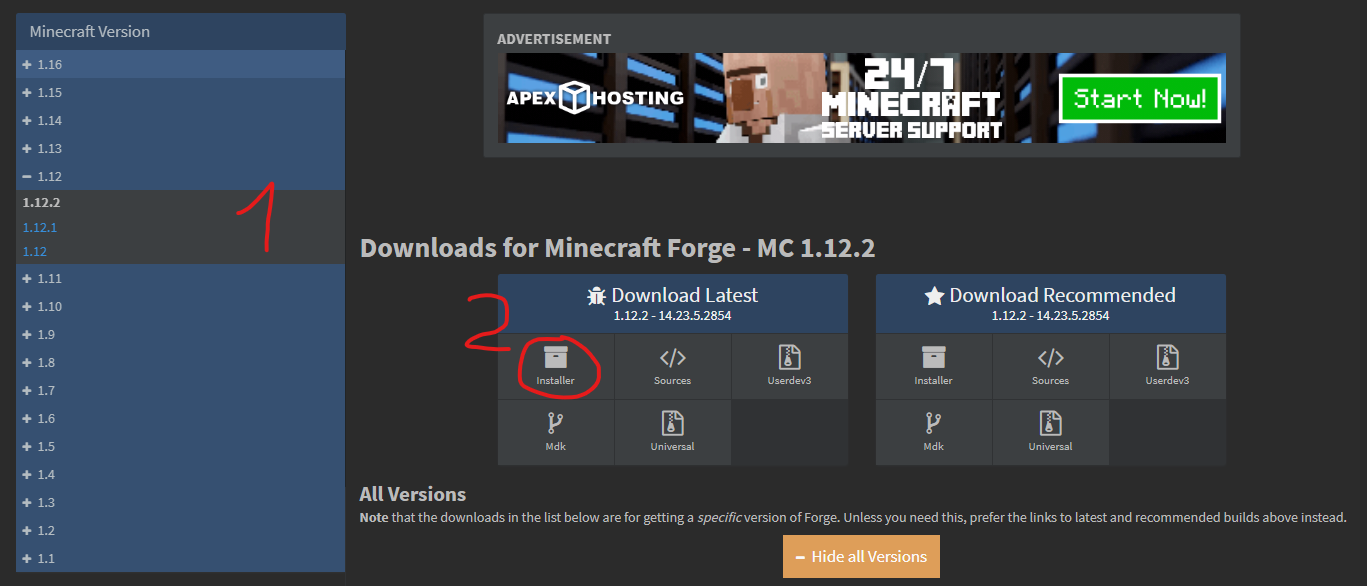
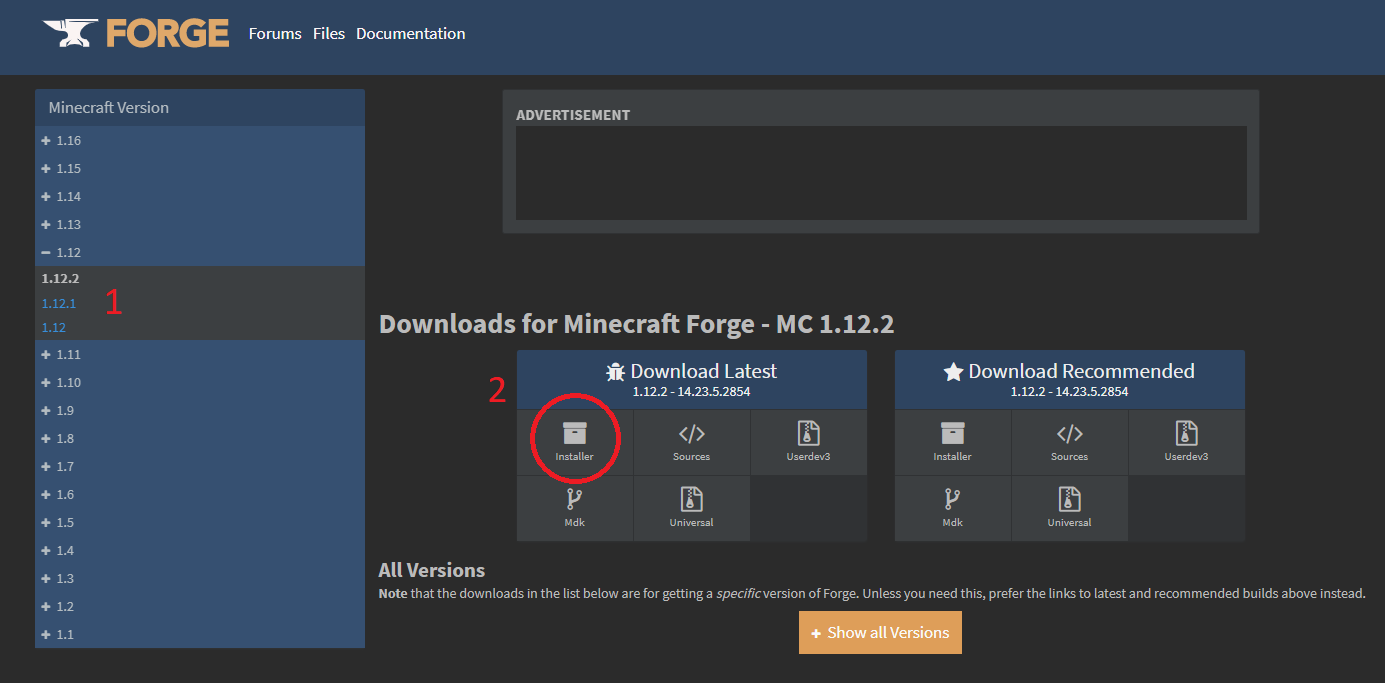
Updated faq, modified screenshot
- Better forge website screenshot (not circled by hand)
- faq : "add or update Java path" changed to "console stays empty when starting" to better describe the issue

diff --git a/docs/faq.md b/docs/faq.md
@@ -14,7 +14,7 @@
 *   [Failed to set performance counters.](#failed-to-set-performance-counters)
 *   [I have this weird IP address: 2001:0db8:85a3:0000:0000:8a2e:0370:7334, is this normal?](#weird-ip-address)
 *   [Updating from 10.4.0.0 or older fails.](#updating-from-10400-fails)
-*   [Add (or update) the Java system path.](#add-update-java-path)
+*   [When I click on start, the console remains empty and the server does nothing/Java is not installed.](#add-update-java-path)
 *   [Mcss has crashed and I want to help fix it.](#crashed-help-dev)
 *   [The UTF-8 encoding doesn't work, I *really really* need it to work.](#utf-8)
 
@@ -51,14 +51,14 @@ However if you want other people to be able to play on your server, you will nee
 Make sure port 25565 (both TCP & UDP) is allowed through your firewall or else it will Refuse the connection.
 
 <a name="is-there-a-mac-version"></a>
-## "Is there a mac or linux version?"
+## Is there a mac or linux version?
 
 No unfortunately there isn't a version for mac. Mcss is Windows only.<br>
 **Supported OSs**: Windows Server (2008R2 SP1/2012/2016), Windows 7, 8 and 10
  
 
 <a name="is-this-24-7"></a>
-## "Is this 24/7?"
+## Is this 24/7?
 
 No, it's software that runs on your computer.<br>
 Nothing like Aternos.
@@ -119,7 +119,7 @@ Open a command prompt with administrator rights and execute the following comman
  
 
 <a name="weird-ip-address"></a>
-## "I have this weird IP address: 2001:0db8:85a3:0000:0000:8a2e:0370:7334, is this normal?"
+## I have this weird IP address: 2001:0db8:85a3:0000:0000:8a2e:0370:7334, is this normal?
 
 Yes that is completely normal, that is called an IPv6 address. Most people don't have access to IPv6 yet so it's smart to share your IPv4 address instead.
 
@@ -141,20 +141,22 @@ You will need to update mcss manually. Download the latest version from the webs
 
 
 <a name="add-update-java-path"></a>
-## "Add (or update) the Java system path."
+## When I click on start, the console remains empty and the server does nothing/Java is not installed.
+This is because you don't have Java installed, or it is not in the PATH variable
 
 > The PATH is the system variable that your operating system uses to locate needed executables from the command line or Terminal window.
 
+First, make sure to install Java from [here](https://java.com/en/download/windows-64bit.jsp). I you know you already have it, try the following steps to add it to the PATH :
 1. Open an explorer window. Right-click on This PC and choose Properties.
 2.  On the left, click the Advanced system settings link.
 3. Click Environment Variables. In the section System Variables, find the PATH environment variable and select it. Click Edit. If the PATH environment variable does not exist, click New.
-4. In the Edit System Variable (or New System Variable) window, specify the value of the PATH environment variable. Click OK. Close all remaining windows by clicking OK.
+4. In the Edit System Variable (or New System Variable) window, specify the value of the PATH environment variable by adding the absolute path to you Java installation (in most cases, `C:\Program files\Java\jre<version>\bin`). Click OK. Close all remaining windows by clicking OK.
 5. If you were using a Command prompt window, you will need to reopen that.
 <br>*(The above steps were adapted from <https://www.java.com/en/download/help/path.xml>)*
 
 
 <a name="crashed-help-dev"></a>
-## "Mcss has crashed and I want to help fix it."
+## Mcss has crashed and I want to help fix it.
 
 To help fix it, you can upload your Windows event logs and mcss logs.
 *(please zip all the files and send them to me by email, SpigotMC or Discord)*
@@ -171,7 +173,7 @@ You can follow the other steps on screenshot below.
 
 
 <a name="utf-8"></a>
-## "The UTF-8 encoding doesn't work, I *really really* need it to work."
+## The UTF-8 encoding doesn't work, I *really really* need it to work.
 
 The sad reality is that UTF-8 is a second-class citizen in Windows.
 
